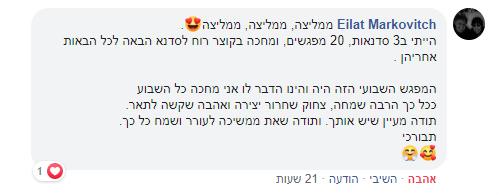
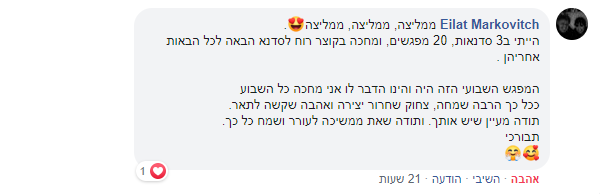
-

diff --git a/landing_pages_new/להתחבר מחדש לתנועה ולשמחת הגוף/להתחבר מחדש לתנועה ולשמחת הגוף.html b/landing_pages_new/להתחבר מחדש לתנועה ולשמחת הגוף/להתחבר מחדש לתנועה ולשמחת הגוף.html
@@ -4,10 +4,24 @@
   <meta charset="UTF-8">
   <meta name="viewport" content="width=device-width, initial-scale=1.0">
   <title>להתחבר מחדש לתנועה ולשמחת הגוף</title>
-  <meta name="description" content="מפגשי תנועה וריקוד לנשים בגיל השלישי והרביעי - עם מעיין בן דוד">
-  <meta name="keywords" content="ריקוד לנשים, תנועה בגיל השלישי, סדנאות לנשים מבוגרות">
-  <meta property="og:image" content="https://content.vp4.me/maayandance/Content/dsc_9472_1980x1315.jpg">
 
+  <!-- Basic Metadata -->
+  <meta name="description" content="אולי עברו שנים מאז שרקדת. אבל עמוק בפנים - עדיין יש תנועה. מפגשי תנועה וריקוד לנשים בגיל השלישי והרביעי. ">
+  <meta name="keywords" content="ריקוד לנשים, תנועה בגיל השלישי, סדנאות לנשים מבוגרות">
+
+  <!-- Open Graph (Facebook, WhatsApp, LinkedIn) -->
+  <meta property="og:type" content="website">
+  <meta property="og:title" content="להתחבר מחדש לתנועה ולשמחת הגוף">
+  <meta property="og:description" content="אולי עברו שנים מאז שרקדת. אבל עמוק בפנים - עדיין יש תנועה. מפגשי תנועה וריקוד לנשים בגיל השלישי והרביעי. ">
+  <meta property="og:image" content="https://adyrosenbaum.github.io/maayandance/landing_pages_new/%D7%9C%D7%94%D7%AA%D7%97%D7%91%D7%A8%20%D7%9E%D7%97%D7%93%D7%A9%20%D7%9C%D7%AA%D7%A0%D7%95%D7%A2%D7%94%20%D7%95%D7%9C%D7%A9%D7%9E%D7%97%D7%AA%20%D7%94%D7%92%D7%95%D7%A3/images/maayan_baloon.jpg">
+  <meta property="og:url" content="https://adyrosenbaum.github.io/maayandance/landing_pages_new/%D7%9C%D7%94%D7%AA%D7%97%D7%91%D7%A8%20%D7%9E%D7%97%D7%93%D7%A9%20%D7%9C%D7%AA%D7%A0%D7%95%D7%A2%D7%94%20%D7%95%D7%9C%D7%A9%D7%9E%D7%97%D7%AA%20%D7%94%D7%92%D7%95%D7%A3/%D7%9C%D7%94%D7%AA%D7%97%D7%91%D7%A8%20%D7%9E%D7%97%D7%93%D7%A9%20%D7%9C%D7%AA%D7%A0%D7%95%D7%A2%D7%94%20%D7%95%D7%9C%D7%A9%D7%9E%D7%97%D7%AA%20%D7%94%D7%92%D7%95%D7%A3.html">
+  <meta property="og:locale" content="he_IL">
+
+  <!-- Twitter Card -->
+  <meta name="twitter:card" content="summary_large_image">
+  <meta name="twitter:title" content="להתחבר מחדש לתנועה ולשמחת הגוף">
+  <meta name="twitter:description" content="אולי עברו שנים מאז שרקדת. אבל עמוק בפנים - עדיין יש תנועה. מפגשי תנועה וריקוד לנשים בגיל השלישי והרביעי. ">
+  <meta name="twitter:image" content="https://adyrosenbaum.github.io/maayandance/landing_pages_new/%D7%9C%D7%94%D7%AA%D7%97%D7%91%D7%A8%20%D7%9E%D7%97%D7%93%D7%A9%20%D7%9C%D7%AA%D7%A0%D7%95%D7%A2%D7%94%20%D7%95%D7%9C%D7%A9%D7%9E%D7%97%D7%AA%20%D7%94%D7%92%D7%95%D7%A3/images/maayan_baloon.jpg">
   <style>
 body {
   font-family: "Arial", sans-serif;
@@ -15,18 +29,85 @@ body {
   color: #002157;
   line-height: 1.6;
   margin: 0;
-  padding: 0;
-  padding-right: 25px;
-  padding-left: 25px;
+  padding: 0 25px;
   direction: rtl;
   text-align: center;
   font-size: 0.7rem; /* בסיס: 13.5pt ~ 18px = 1rem */
+  width: 100%;
+  box-sizing: border-box;
+}
+.logo-image {
+  height: 140px;
+  display: block;
+  margin: 20px auto;
+}
+.logo-image img {
+  width: auto;
+  height: 140px;
+  object-fit: cover;
 }
 
-header {
-  font-size: 2.5rem;
-  color: #DE4792;
-  line-height: 1.6em;
+/* Hero section setup */
+.hero {
+  position: relative;
+  width: 100%;
+  max-width: 800px; /* או מה שמתאים לעיצוב שלך */
+  margin: 0 auto;
+  border-radius: 24px;
+  overflow: hidden;
+}
+
+/* Image gets cropped based on text size + padding */
+.hero-image {
+  position: absolute;
+  top: 0;
+  left: 0;
+  width: 100%;
+  height: 100%;
+  object-fit: cover; /* Ensures it fills the area and gets cropped */
+  z-index: 0;
+  border-radius: 24px; /* Same as container for rounded edges */
+}
+
+/* Text over image */
+.hero-text {
+  position: relative;
+  z-index: 1;
+  padding: 20px;
+  display: flex;
+  flex-direction: column;
+  justify-content: center;
+  text-align: center;
+  color: #002157;
+  backdrop-filter: blur(3px); /* optional: subtle blur */
+  border-radius: 24px;
+}
+
+/* Title styles */
+.heading1 {
+  font-size: 2.2rem;
+  line-height: 1.4em;
+  margin-bottom: 0.5em;
+}
+
+.heading2 {
+  font-size: 1.6rem;
+  line-height: 1.2em;
+}
+
+/* Responsive: smaller text on mobile */
+@media (max-width: 600px) {
+  .heading1 {
+    font-size: 1.6rem;
+  }
+
+  .heading2 {
+    font-size: 1.2rem;
+  }
+
+  .hero-text {
+    padding: 15px;
+  }
 }
 
 section {
@@ -38,12 +119,6 @@ section p {
   max-width: 50%;
   margin: 0 auto 1rem;
   font-size: 1.8rem;
-}
-
-.heading1 {
-  font-size: 2rem;
-  color: #DE4792;
-  line-height: 1.8rem;
 }
 
 .testimonial-entry {
@@ -68,6 +143,20 @@ section p {
   width: 137px;
   height: 88px;
   object-fit: cover;
+}
+
+.testimonial-screenshot img{
+  padding-top: 10px;
+  width: 80%;
+  height: auto;
+  display: block;
+  margin: 0 auto;
+}
+/* על מובייל ואייפד (מתחת ל־960px), רוחב מלא */
+@media (max-width: 960px) {
+  .testimonial-screenshot img {
+    width: 100%;
+  }
 }
 
 /* טלפון בולט */
@@ -110,6 +199,7 @@ a[href^="tel"] {
   section p, section ul,
   .testimonial-entry {
     max-width: 100%;
+	font-size: 1.4rem;
   }
   section {
     margin-top: 2.5rem;
@@ -122,6 +212,10 @@ a[href^="tel"] {
 
   p br {
     display: none;
+  }
+  
+  p.nohide-br br {
+    display: inline;
   }
   
   header {
@@ -147,11 +241,16 @@ a[href^="tel"] {
 <body>
 
 <header>
-  <div class="kImage">
-    <img src="./images/banner_title.jpg" alt="להתחבר מחדש לתנועה ולשמחת הגוף">
+  <div class="logo-image">
+    <img src="./images/logo.png" alt="לוגו חדר משלנו">
   </div>
-  <h1 class="heading1" style="display:none">להתחבר מחדש לתנועה ולשמחת הגוף</h1>
-  <h2 class="heading2">מפגשי תנועה וריקוד <br>לנשים בגיל השלישי והרביעי</h2>
+  <div class="hero">
+    <img src="./images/flowers.png" alt="פרחים" class="hero-image">
+    <div class="hero-text">
+      <h1 class="heading1">להתחבר מחדש לתנועה ולשמחת הגוף</h1>
+      <h2 class="heading2">מפגשי תנועה וריקוד <br> לנשים בגיל השלישי והרביעי</h2>
+    </div>
+  </div>
 </header>
 
 <div class="kImage">
@@ -196,7 +295,7 @@ a[href^="tel"] {
 
 <section>
   <h2 class="heading1">מה נעשה במפגשים?</h2>
-  <p>
+  <p class="nohide-br">
     חימום עדין שמעורר את החושים<br>
     ריקוד נשי פשוט מעולמות שונים<br>
     תנועה חופשית בליווי מוזיקה מגוונת<br>
@@ -249,7 +348,7 @@ a[href^="tel"] {
   </div>
 
   <div class="kImage">
-    <img src="./images/testimonials_seperator2.jpg" alt="אישה משתפת נוספת">
+    <img src="./images/testimonials_seperator2.jpg" alt="הפרדה">
   </div>
 
   <div class="testimonial-entry">
@@ -260,7 +359,7 @@ a[href^="tel"] {
   </div>
 
   <div class="kImage">
-    <img src="./images/testimonials_seperator3.jpg" alt="אישה שלישית משתפת">
+    <img src="./images/testimonials_seperator3.jpg" alt="הפרדה">
   </div>
 
   <div class="testimonial-entry">
@@ -271,20 +370,20 @@ a[href^="tel"] {
   </div>
   
   <div class="kImage">
-    <img src="./images/testimonials_seperator1.jpg" alt="אישה שלישית משתפת">
+    <img src="./images/testimonials_seperator1.jpg" alt="הפרדה">
   </div>
 
 
-  <div class="kImage">
+  <div class="testimonial-screenshot">
     <img src="./images/testimonials_eilat_markovitch.png" alt="עדות אילת מרקוביץ">
   </div>
-  <div class="kImage">
+  <div class="testimonial-screenshot">
     <img src="./images/testimonials_miriam_shaked.png" alt="עדות מרים שקד">
   </div>
-  <div class="kImage">
+  <div class="testimonial-screenshot">
     <img src="./images/testimonials_rina_vaanunu.png" alt="עדות רינה ונונו">
   </div>
-  <div class="kImage">
+  <div class="testimonial-screenshot">
     <img src="./images/testimonials_chaya_lustig.png" alt="עדות חיה לוסטיג">
   </div>
 </section>
